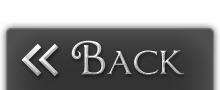
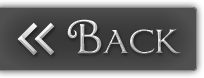
Add Sci-Fi background images, and put the back button in a better spot.

diff --git a/portfolio.html b/portfolio.html
@@ -46,7 +46,7 @@
 				</ul>
 			</div>
 		</div>
-		<center><img id="banner" src="portfolio/images/banners/portfolio-banner.png"></center>
+		<center><a href="real_index.html" ><img id="banner" src="portfolio/images/banners/portfolio-banner.png"></a></center>
 		<div id = "content">
 			<center>
 				<div id="loading-text">
@@ -71,8 +71,15 @@
 				<div id="scifi-images">
 					<a href = "#/main"> <img id="back-button" src="portfolio/images/back-button.png"></a>
 					<img id="scifi-title" src="portfolio/images/banners/scifi-title.png">
+
+					<img id="background-gun" src="portfolio/images/background-images/gun-crop.png">
+					<img id="background-bullet-1" src="portfolio/images/background-images/bullet.png">
+					<img id="background-bullet-2" src="portfolio/images/background-images/bullet.png">
+					<img id="background-gears" src="portfolio/images/background-images/gears.jpg">
+
 				</div>
 			</center>
+
 		</div>
 		<div id="hidden-text"> If you can see this, CSS is disabled. Ignore it, it's just to force a font to load. </div>
 

diff --git a/portfolio/css/portfolio.css b/portfolio/css/portfolio.css
@@ -167,7 +167,58 @@ a:active img{
 }
 
 #back-button{
-	position: fixed;
-	bottom: 0px;
-	right: 30px;
+	position: absolute;
+	top: 300px;
+	left: -5px;
+}
+
+
+#background-gun{
+	position: absolute;
+	top: 350px;
+	right: 0px;
+	z-index: -1;
+	overflow: hidden;
+}
+#background-bullet-1{
+	position: absolute;
+	top: 880px;
+	left: -100px;
+	z-index: -1;
+	overflow: hidden;
+}
+#background-bullet-2{
+	position: absolute;
+	top: 810px;
+	left: 50px;
+	z-index: -1;
+	overflow: hidden;
+}
+
+#background-gears{
+	position: absolute;
+	top: 1200px;
+	right: -200px;
+	z-index: -1;
+	overflow: hidden;
+}
+
+.credit{
+	font-size: 11px;
+	color: #111;
+	font-family: "Arial";
+}
+
+#footer-background { 
+	background: url('../../images/spriteme2.png') repeat-x; 
+	padding-top: 15px; 
+	height: 42px; 
+	width: 100%;
+	background-position: 0% -10px; 
+	-moz-transform: scaleY(-1);
+        -o-transform: scaleY(-1);
+        -webkit-transform: scaleY(-1);
+        transform: scaleY(-1);
+        filter: FlipV;
+        -ms-filter: "FlipV";
 }

diff --git a/portfolio/js/portfolio.js b/portfolio/js/portfolio.js
@@ -112,6 +112,10 @@ function displayImages(){
 		}
 		fantasy_div.appendChild(a);
 	}
+	fantasy_credit_div = document.createElement('div');
+	fantasy_credit_div.innerHTML = ""
+	fantasy_credit_div.setAttribute("class", "credit");
+	fantasy_div.appendChild(fantasy_credit_div);
 
 	scifi_data = loadPortfolio("portfolio/images/sci-fi.xml");
 	scifi_div = document.getElementById("scifi-images")
@@ -137,6 +141,10 @@ function displayImages(){
 		}
 		scifi_div.appendChild(a);
 	}
+	scifi_credit_div = document.createElement('div');
+	scifi_credit_div.innerHTML = "Gun model by Patrick Sharkey. Gears by Obsidian Dawn."
+	scifi_credit_div.setAttribute("class", "credit");
+	scifi_div.appendChild(scifi_credit_div);
 }
 
 function showFantasy(){
